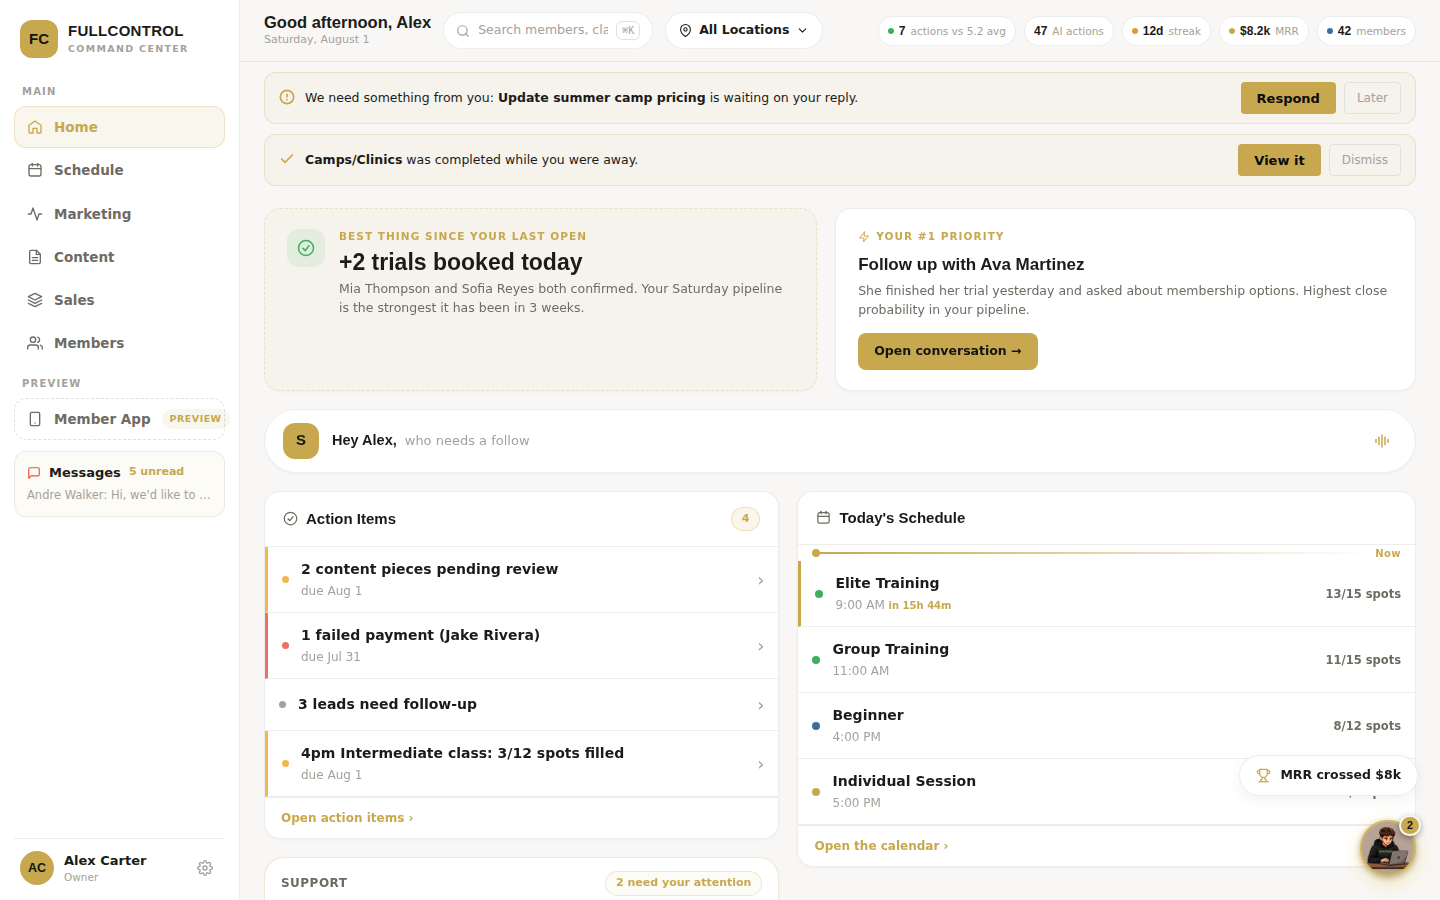
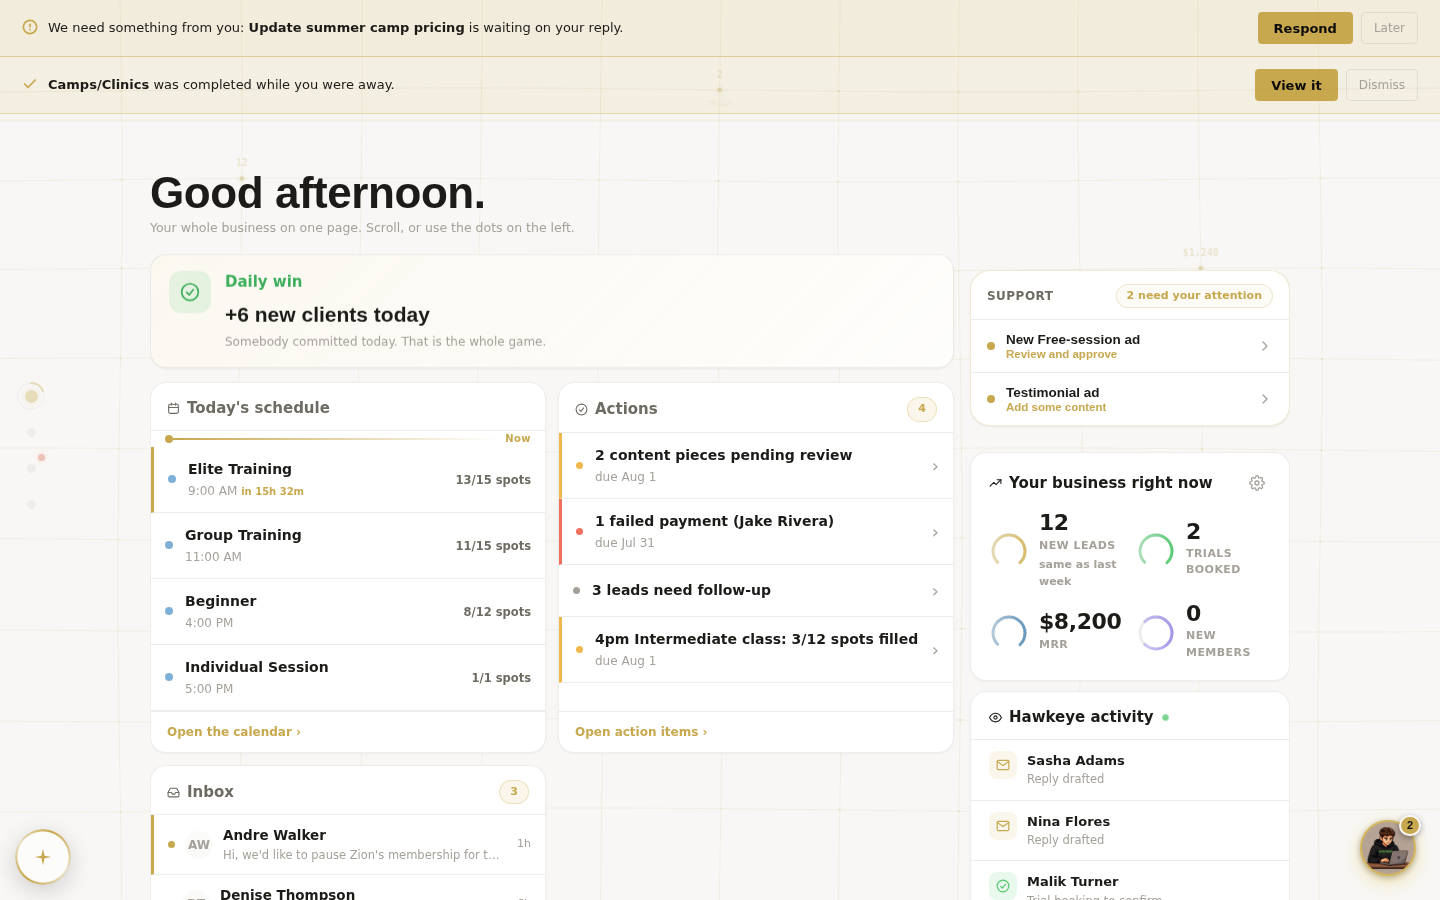
Investor page: show the V2 command center (the real direction), retire prototype embed
Direction call from Cole + Zoran: the V2 command center (full-bleed
scroll) IS the product's face. The one-pager's "See it in motion" now
shows exactly that - both screenshots recaptured from the shipped V2
surfaces in mock mode (command-center Home with the rich demo academy,
Hawkeye deck cropped to the card), fictional data only. The prototype
iframe and its "design north star" framing are removed: the sidebar look
is retired as a direction, so pointing investors at it was wrong.

The FCUI pilot stays parked behind its flag - memory notes updated with
the decision, the do-not-extend rule, and the mock-auto-ons-fcui gotcha
(&fcui=0 for real-product demos).

Claude-Session: https://claude.ai/code/session_015N4a9UFEdRdvZeBVXqAAqy

diff --git a/business/business/summary.html b/business/business/summary.html
@@ -971,32 +971,18 @@ footer {
 
 <div class="section-kicker" style="margin-top:32px">See it in motion</div>
   <p style="font-family:var(--mono);font-size:10px;letter-spacing:0.14em;text-transform:uppercase;color:var(--gold);margin-bottom:8px">The beta, today</p>
-  <p style="margin-bottom:14px;font-size:13px;color:rgba(245,241,232,0.6);line-height:1.6">Straight from the live product this week: the owner's Home, and Hawkeye's approval deck holding a real drafted conversation - exactly what our academies see every morning.</p>
+  <p style="margin-bottom:14px;font-size:13px;color:rgba(245,241,232,0.6);line-height:1.6">Straight from the live product this week: the owner's command center, and Hawkeye's approval deck holding a real drafted conversation - exactly what our academies see every morning. Demo data shown; ask us for a live walkthrough.</p>
   <div style="display:grid;grid-template-columns:repeat(auto-fit,minmax(280px,1fr));gap:14px;margin-bottom:10px">
     <figure style="margin:0">
       <img src="/business/business/images/beta-home.png" alt="FullControl beta: the owner's Home" loading="lazy" style="width:100%;border:1px solid var(--line-dark);border-radius:6px;display:block">
-      <figcaption style="font-family:var(--mono);font-size:9px;letter-spacing:0.1em;text-transform:uppercase;color:rgba(245,241,232,0.4);margin-top:6px">The owner's Home - live in beta</figcaption>
+      <figcaption style="font-family:var(--mono);font-size:9px;letter-spacing:0.1em;text-transform:uppercase;color:rgba(245,241,232,0.4);margin-top:6px">The command center - your whole business on one page</figcaption>
     </figure>
     <figure style="margin:0">
       <img src="/business/business/images/beta-hawkeye.png" alt="FullControl beta: Hawkeye's approval deck" loading="lazy" style="width:100%;border:1px solid var(--line-dark);border-radius:6px;display:block">
       <figcaption style="font-family:var(--mono);font-size:9px;letter-spacing:0.1em;text-transform:uppercase;color:rgba(245,241,232,0.4);margin-top:6px">Hawkeye's approval deck - one tap sends the drafted reply</figcaption>
     </figure>
   </div>
-  <p style="font-family:var(--mono);font-size:10px;letter-spacing:0.14em;text-transform:uppercase;color:var(--gold);margin:22px 0 8px">Where it's headed</p>
-  <p style="margin-bottom:14px;font-size:13px;color:rgba(245,241,232,0.6);line-height:1.6">The interactive prototype below is the design north star. Click around it - and ask us for a live demo of the beta.</p>
-  <div class="proto-frame">
-    <div class="proto-topbar">
-      <span class="proto-dot"></span>
-      <span class="proto-dot"></span>
-      <span class="proto-dot"></span>
-      <span class="proto-url">app.fullcontrol.io</span>
-    </div>
-    <iframe src="https://fullcontrol-prototype-six.vercel.app/#/home" style="width:100%;height:700px;border:none;background:var(--ink)" loading="lazy" title="FullControl Prototype"></iframe>
-  </div>
-  <div class="proto-mobile-nudge">
-    <p><strong>Open on desktop to view the live prototype.</strong><br>Visit this page on a computer for the full interactive experience.</p>
-  </div>
-  <p style="margin-top:14px;font-size:11px;font-family:var(--mono);letter-spacing:0.06em;color:rgba(245,241,232,0.4);text-align:center">The mobile app is headed to the App Store and Google Play now. Mobile is the primary surface.</p>
+  <p style="margin-top:12px;font-size:11px;font-family:var(--mono);letter-spacing:0.06em;color:rgba(245,241,232,0.4)">The mobile app is headed to the App Store and Google Play now. Mobile is the primary surface.</p>
 </section>
 
 

diff --git a/bam-ghl-agent/memories/MEMORY.md b/bam-ghl-agent/memories/MEMORY.md
@@ -2,7 +2,7 @@
 
 Project notes for the BAM GHL Agent / portal work. Read the relevant file when its topic comes up.
 
-- [FCUI Home pilot](project_fcui_home_pilot.md) — 2026-07-31 BUILT + verified: V2 owner Home rebuilt to the FullControl prototype's command-center design behind `_fcuiOn()` (`?fcui=1` / localStorage / mock; `?fcui=0` forces off). Sidebar shell, hero cards, AI bar, radials, messages drawer; flag-off byte-identical, V1/V1.5 + mobile untouched. Approved rulings (Nunito stays, no purple, flat cream), mock demo seed, builder traps for the next pages. NOT default anywhere until Zoran+Cole flip it.
+- [FCUI Home pilot](project_fcui_home_pilot.md) — 2026-07-31 BUILT + verified: V2 owner Home rebuilt to the FullControl prototype's command-center design behind `_fcuiOn()` (`?fcui=1` / localStorage / mock; `?fcui=0` forces off). Sidebar shell, hero cards, AI bar, radials, messages drawer; flag-off byte-identical, V1/V1.5 + mobile untouched. Approved rulings (Nunito stays, no purple, flat cream), mock demo seed, builder traps for the next pages. PARKED 2026-08-01: Cole+Zoran chose the V2 command center as the product direction; do not extend the pilot, fold its best pieces into V2 later. Mock mode auto-ons the flag - use &fcui=0 for real-product demos.
 
 - [GHL location tokens - keeping them warm](project_ghl_token_warmth.md) - 2026-07-23 INCIDENT + FIX: `ghl_agency_tokens` held a **Location** token (BAM GTA's), not a Company token, so the nightly re-mint answered `200 OK, connected 0/33` for weeks with no alert. Only renewal left was a **60-second** window in `pickGhlToken` with `catch(_){}` - one shot per 24h - so academies bricked one at a time (14 of 30 cold, from 2026-06-27). Shipped: `api/ghl/_agency.js` (mint + alerting), `RENEW_WINDOW_MS=6h`, `assertCompanyToken` blocks storing a non-Company token, dedicated `GHL_AGENCY_OAUTH_CLIENT_ID`, hourly `?action=mint&scope=stale`, mint-first renewal, `clients.ghl_token_error`. Also collapsed **11 duplicate copies** of `refreshGhlToken`/`pickGhlToken` onto `api/ghl/_core.js`. **STILL OUTSTANDING: Zoran must re-run the agency OAuth once at AGENCY level** or the 14 cold academies stay cold. Supersedes the "agency mint BLOCKED" line in [[project_v15_rollout]].
 - [Member Care agent (proposal cards in member convos)](project_member_care_agent.md) — 2026-07-18 BUILT: 4th Hawkeye-family agent watches member/parent conversations, proposes billing actions + draft replies + to-dos as approve-only cards INLINE in the member drawer. Table `agent_member_cards` (migration LIVE in prod 2026-07-18), endpoint `api/agent-member-care.js`, cron + webhook fast paths, `member_care_agent_mode` (default off), lesson bucket `member_care`. Notion MEM- job still to add.

diff --git a/bam-ghl-agent/memories/project_fcui_home_pilot.md b/bam-ghl-agent/memories/project_fcui_home_pilot.md
@@ -47,9 +47,17 @@ Right-rail loaders write by ID (#hm-score-grid etc.) - mounts kept/guarded. Reve
 observers root on .main (.hm-bubble starts opacity:0). Messages panel DOM has three
 hidden selects - automated checks must target `.fcui-msgp-sortw`.
 
-## Rollout state
+## Rollout state - DIRECTION DECIDED 2026-08-01
 
-Pilot commits live on the working branch (phases 53ffc7cb..b7f70809-era). NOT the
-default for any real academy - Zoran + Cole sign-off flips it (either default-on
-for V2 or per-academy). Next pages if approved: Schedule, Members, Sales via the
-same mockup-build loop. Screenshots: scratchpad/home-pilot/ (round1/2/3, build).
+**Cole + Zoran both prefer the V2 command center (full-bleed scroll) as the
+product's face.** The prototype's sidebar look is retired as a direction; this
+pilot stays PARKED behind its flag (merged, harmless, flag off everywhere).
+Do NOT extend it to more pages. Its best pieces (progress radials, messages
+drawer with sort/mark-all-read, milestones card) may be folded into the V2
+command center later as individual features.
+
+Gotcha: mock mode (`?mock=1`) AUTO-ONS the fcui flag, so demos/screenshots of
+the real product need `&fcui=0`. If the pilot stays parked long-term, flip the
+mock default to off (one-line change in `_fcuiOn()`).
+
+Screenshots: scratchpad/home-pilot/ (round1/2/3, build).
